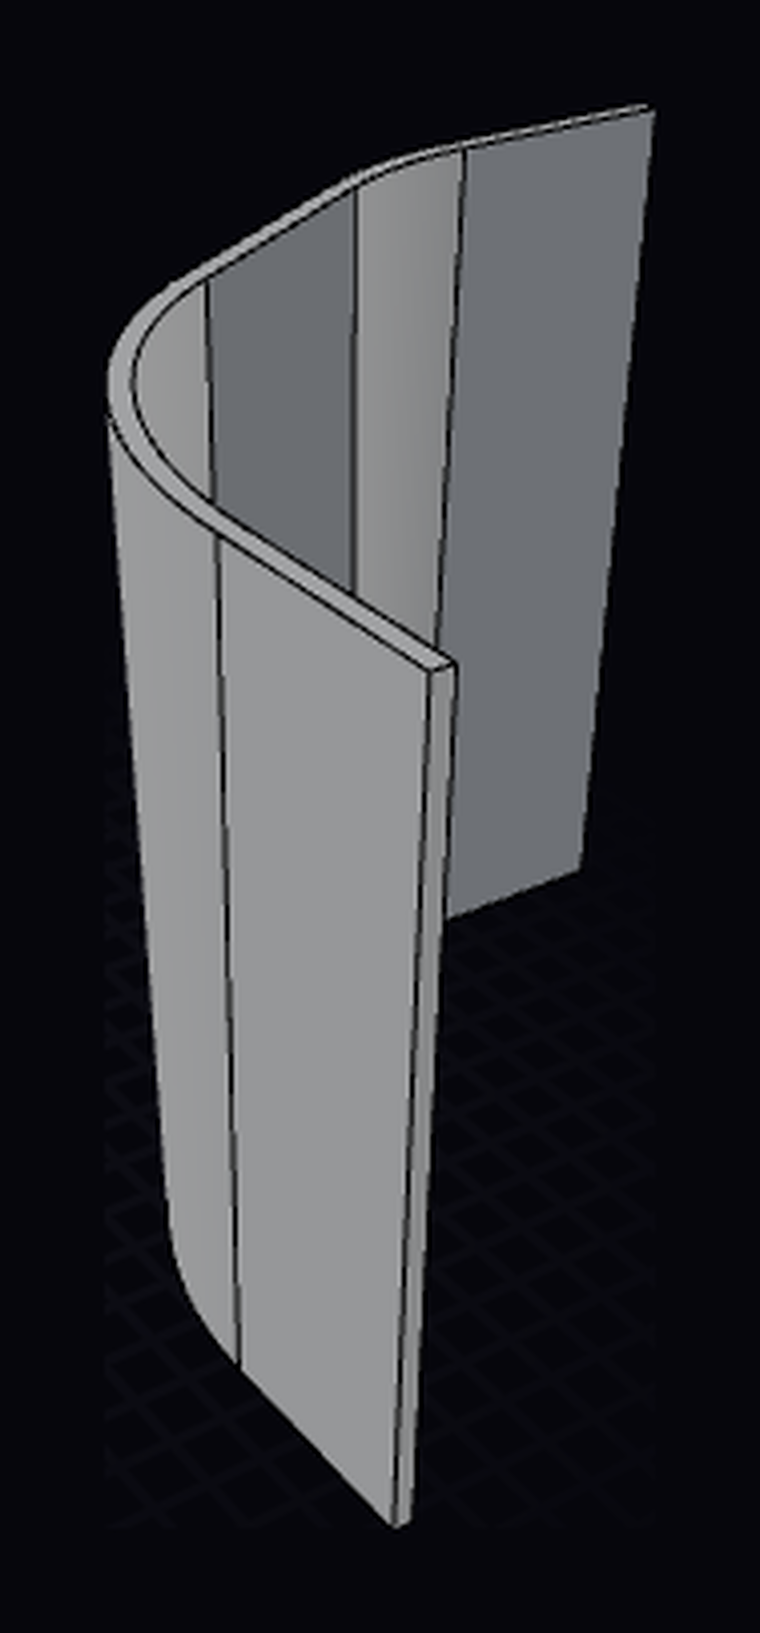
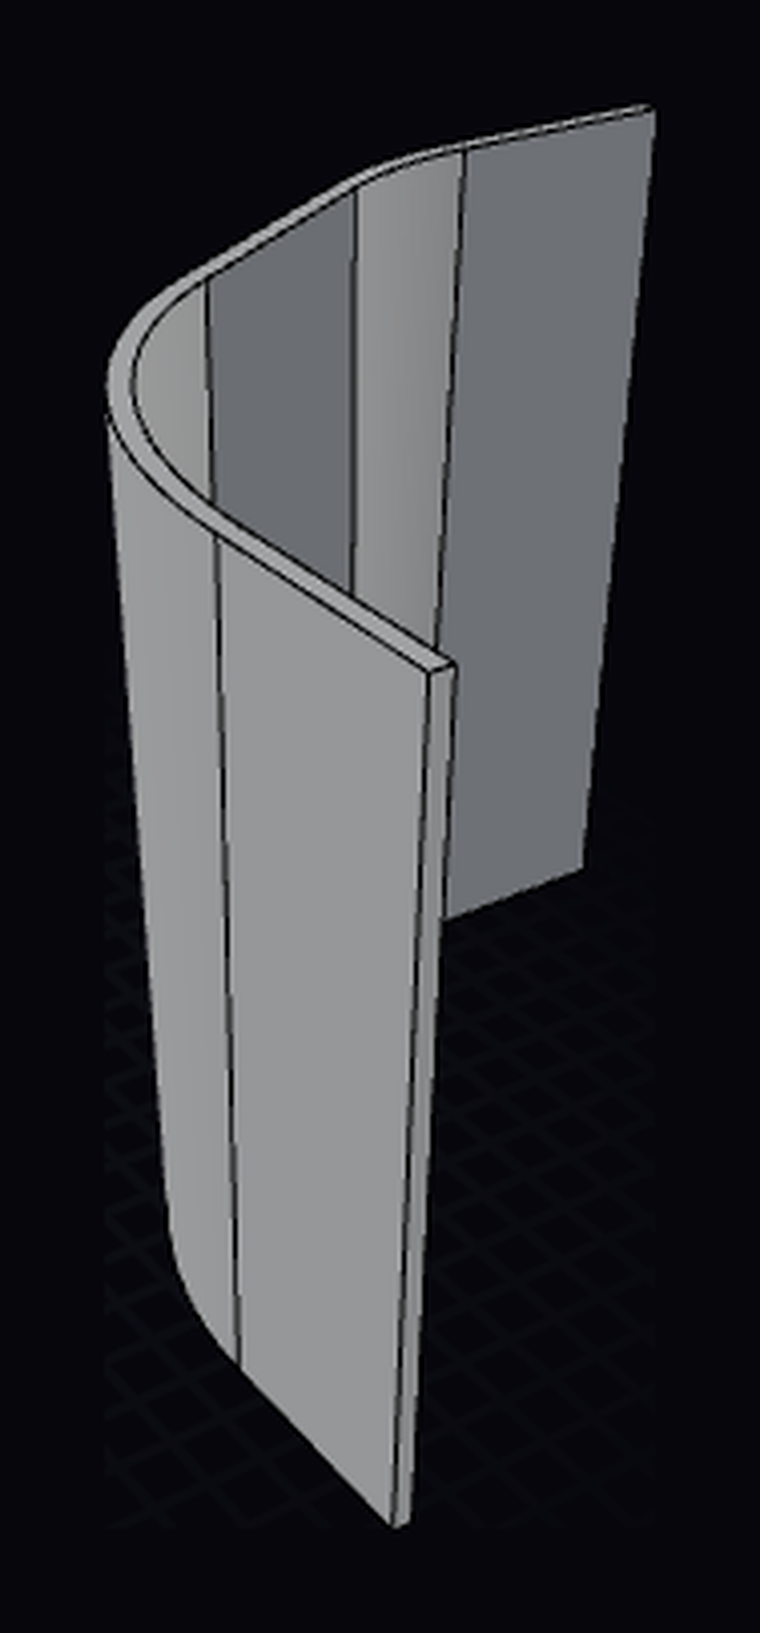
Adjust width to 656mm

diff --git a/src/cart.ts b/src/cart.ts
@@ -24,7 +24,7 @@ export const cart = {
   cutoutGap: 279.4,
 
   /** Across the cart, centre to centre between cutouts on opposite long sides. */
-  cutoutSpanAcross: 655,
+  cutoutSpanAcross: 656,
 
   /** Clear gap between the two handle-end cutouts. Measured: the same as along the sides. */
   handleEndGap: 279.4,
@@ -42,7 +42,7 @@ export const handleEndPitch = cart.handleEndGap + cart.cutoutLength;
  */
 export const corner = {
   /** Across the cart: long-side cutout centre to handle-end cutout centre. */
-  across: cart.cutoutSpanAcross / 2 - handleEndPitch / 2, // 162.15
+  across: cart.cutoutSpanAcross / 2 - handleEndPitch / 2, // 162.65
 
   /**
    * Along the cart: handle-end cutout centre to long-side cutout centre.

diff --git a/src/corner-panel.ts b/src/corner-panel.ts
@@ -83,7 +83,7 @@ const toGrooveFloor = plug.y / 2 - post.grooveDepth; // 17.5
  * fit tolerance, as the side panel does at each end.
  */
 const endA = corner.along - toGrooveFloor - cart.fitTolerance / 2; // 122.05
-const endB = corner.across - toGrooveFloor - cart.fitTolerance / 2; // 144.5
+const endB = corner.across - toGrooveFloor - cart.fitTolerance / 2; // 145.0
 
 const dot = (a: Vec, b: Vec) => a[0] * b[0] + a[1] * b[1];
 const unit = (a: Vec): Vec => {

diff --git a/README.md b/README.md
@@ -18,7 +18,7 @@ Measured facts about the cutouts in the top rim of the cart body. All accessorie
 | Cutouts on short side nearest the handle | 2 |
 | Total cutouts | 8 |
 | Gap between adjacent cutouts along a side | 11 in (279.4 mm) edge to edge, so 330.7 mm centre to centre |
-| Width across the cart (short side) | 655 mm, centre to centre between cutouts on opposite long sides |
+| Width across the cart (short side) | 656 mm, centre to centre between cutouts on opposite long sides |
 | Gap between the handle-end cutouts | 11 in (279.4 mm) edge to edge, the same as along the sides |
 | Handle-end cutouts along the cart | 5.5 in (139.7 mm) from the nearest long-side cutouts, centre to centre (measured 139.65 mm) |
 | Rim corners at the handle end | A round, a flat about 64.5° from the long side, and a second round (from photos) |
@@ -39,7 +39,7 @@ The rows marked "from photos" weren't measured on the cart. They come from three
 - the top-down view in the [GCG-7 capacity and dimensions infographic](https://gorillamade.com/wp-content/uploads/2019/03/GCG-7_Infographic_CapacityDimensions_576px_UPDATED-DIMS-2025-10-03.jpg), a smaller copy of the same shot
 - the overhead tub shot on the [Gorilla Carts ANZ product page](https://gorillacarts.com.au/cdn/shop/products/ScreenShot2019-04-02at12.06.00pm.png), taken from a different angle
 
-Method: in each photo, I picked out the centres of all the cutout openings, then corrected for the camera's perspective. The six long-side cutouts were the reference points, at the measured 655 mm across and 330.7 mm pitch. That correction fits the long-side cutouts to within 1–3 px, then places the other features on the rim:
+Method: in each photo, I picked out the centres of all the cutout openings, then corrected for the camera's perspective. The six long-side cutouts were the reference points, at 655 mm across (the measurement at the time, since refined to 656 mm) and 330.7 mm pitch. That correction fits the long-side cutouts to within 1–3 px, then places the other features on the rim:
 
 | Result | Image 12 | Infographic | ANZ photo | Model |
 | --- | --- | --- | --- | --- |
@@ -53,7 +53,7 @@ In Image 12, the tub's outline against the white background measures 672 mm acro
 - **Proportions:** the photo's length to width (1.457) matches the listing's (1.463) to within 0.4%.
 - **Overall size:** the photo comes out about 2% smaller in both directions.
 
-Scaling everything up to match the listing would put the long-side cutouts 669 mm apart instead of the 655 mm measured on the cart. The listing more likely rounds the figures or measures over the cutout housings, which bulge slightly past the rim. A 279.4 mm centre-to-centre pitch would make the tub only about 840 mm long, so the 11 in is an edge-to-edge gap.
+Scaling everything up to match the listing would put the long-side cutouts 669 mm apart instead of the 656 mm measured on the cart. The listing more likely rounds the figures or measures over the cutout housings, which bulge slightly past the rim. A 279.4 mm centre-to-centre pitch would make the tub only about 840 mm long, so the 11 in is an edge-to-edge gap.
 
 The corner shape came from tracing the inside edge of the rim around both handle-end corners in Image 12 and the infographic. All four traces agree:
 
@@ -159,13 +159,13 @@ Closes each handle-end corner, from the long-side post nearest the handle to the
 | | |
 |---|---|
 | Long-side leg | 122.05 mm from the corner to its end (139.7 − 17.5 − 0.15) |
-| Handle-end leg | 144.5 mm from the corner to its end (162.15 − 17.5 − 0.15) |
+| Handle-end leg | 145.0 mm from the corner to its end (162.65 − 17.5 − 0.15) |
 | Flat | Meets the long-side line 43 mm from the corner and the handle-end line 90 mm from it, about 64.5° to the long side |
 | Rounds | 63 mm radius into the long side and 51 mm into the handle end, on the centreline at the bottom; each grows by 15.7 mm at the top |
 | Lean | Legs and flat all lean 6° outward, so the rounds are slices of cones |
 | Section | 3.7 mm thick, 150 mm up the slope |
 | Ends | Square to their legs and the same length top to bottom; 0.15 mm clear of each groove floor |
-| Overall | 139.6 × 162.0 × 149.2 mm, printed standing on its bottom edge |
+| Overall | 139.6 × 162.5 × 149.2 mm, printed standing on its bottom edge |
 
 The corner's path is the inside edge of the rim moved 17 mm outward, onto the line through the cutouts. So the panel's bottom edge sits on the rim all the way round the corner.
 
@@ -173,11 +173,11 @@ The corner panel prints as modelled, standing up. The 6° lean is the only overh
 
 The legs lean in different directions, so the panel can't slide straight down into posts that are already fitted: at 6° the ends would have to travel 15.7 mm sideways, almost twice the 8 mm groove depth. Instead, fit it into the two posts' grooves first, then lower the posts and the panel into the cutouts together.
 
-Verified: each part is a valid single solid, manifold, 14 faces, bounding box 139.6 × 162.0 × 149.2. Measured volume 131347.94 mm³ matches the analytic figure.
+Verified: each part is a valid single solid, manifold, 14 faces, bounding box 139.6 × 162.5 × 149.2. Measured volume 131625.44 mm³ matches the analytic figure.
 
 ### Capacity
 
-With the far end closed straight across between the two farthest long-side posts, the posts and panels hold about 80 litres above the rim. That's 80.2 L to the panels' inside faces, or 81.0 L to their mid-planes, and takes the cart to about 280 L. At the rim, the panel outline is 801.1 × 655 mm between centre lines. With the 6° lean it grows to about 832 × 686 mm at the top, 149.2 mm higher.
+With the far end closed straight across between the two farthest long-side posts, the posts and panels hold about 80 litres above the rim. That's 80.3 L to the panels' inside faces, or 81.1 L to their mid-planes, and takes the cart to about 280 L. At the rim, the panel outline is 801.1 × 656 mm between centre lines. With the 6° lean it grows to about 832 × 687 mm at the top, 149.2 mm higher.
 
 ## Toolchain
 
